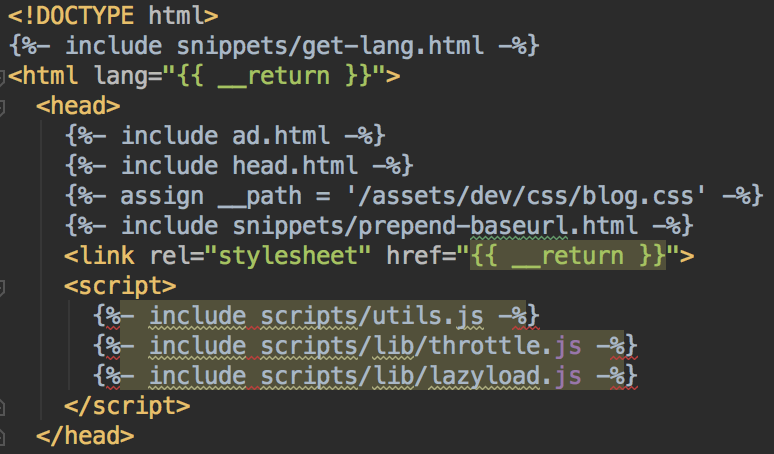
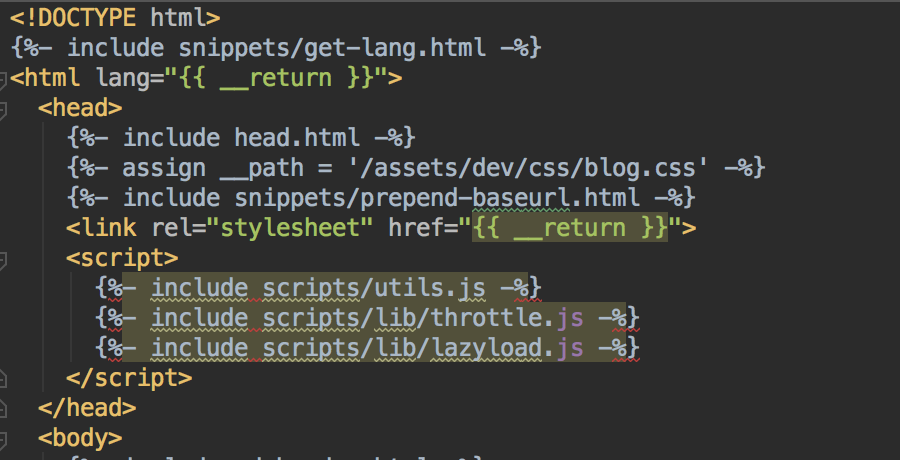
get adsense

diff --git a/_layouts/base.html b/_layouts/base.html
@@ -2,7 +2,6 @@
 {%- include snippets/get-lang.html -%}
 <html lang="{{ __return }}">
   <head>
-    {%- include ad.html -%}
     {%- include head.html -%}
     {%- assign __path = '/assets/dev/css/blog.css' -%}
     {%- include snippets/prepend-baseurl.html -%}

diff --git a/_posts/2018-09-19-구글-애드센스-신청-하기.md b/_posts/2018-09-19-구글-애드센스-신청-하기.md
@@ -15,20 +15,20 @@ tags:
 
 <br>
 
-### 애드고시
-
+## 애드고시
+<br>
 개인 블로그에 광고를 등록하는 애드센스 신청은 자격 불충분으로 좌절되는 경우가 많다고 하여 **애드고시**라고 불린답니다.
 지인이 구글 광고로 과자값은 번다는 말을 듣고 허겁지겁 저도 따라해 보았습니다. 저는 보는 사람이 편하도록 글을 쓰지 않았기 때문에 많이 기대 안 했는데 의외로 손쉽게 승인이 됐네요.
 
 구글링하면서 이리저리 들은 바로는 **포스트가 20개는 넘어야 하며**, **포스트 길이도 어느 정도 이상**인 것이 좋다네요.
 
 
-### 애드센스 승인 과정
-
+## 애드센스 승인 과정
+<br>
 제가 애드고시에 성공한 방법은 다음과 같습니다.
 
-#### 애드센스 홈페이지 가입 후 연결 신청하기
-
+### 애드센스 홈페이지 가입 후 연결 신청하기
+<br>
 [애드센스 홈페이지](https://www.google.com/adsense/)
 
 먼저 요 홈페이지로 들어가서 구글 계정으로 가입합니다. 그리고 첫 번째로 뜨는 화면에서 연결 신청을 하면 됩니다.
@@ -37,6 +37,10 @@ tags:
 
 그럼 요런 게 보일 거예요. 여기서 저 코드를 블로그에 삽입해야 하는데 저는 비교적 깔끔한 방법을 사용해 보았습니다.
 
-#### ad.html 파일 생성 후 base layout에 삽입하기
+### ad.html 파일 생성 후 base layout에 삽입하기
+<br>
+저 코드를 그대로 복사해서 \<head\> \<\/head\> 사이에 넣어 주기만 해도 될텐데요, 저는 블로그 layout이 아래처럼 되어있습니다.
 
-저 코드를 그대로 복사해서 \<head\> \<\/head\> 사이에 넣어 주기만 해도 될텐데요, 저는 블로그 layout이 
+![1](https://raw.githubusercontent.com/q0115643/my_blog/master/assets/images/get-adsense/2.png)
+
+저기에 그냥 
